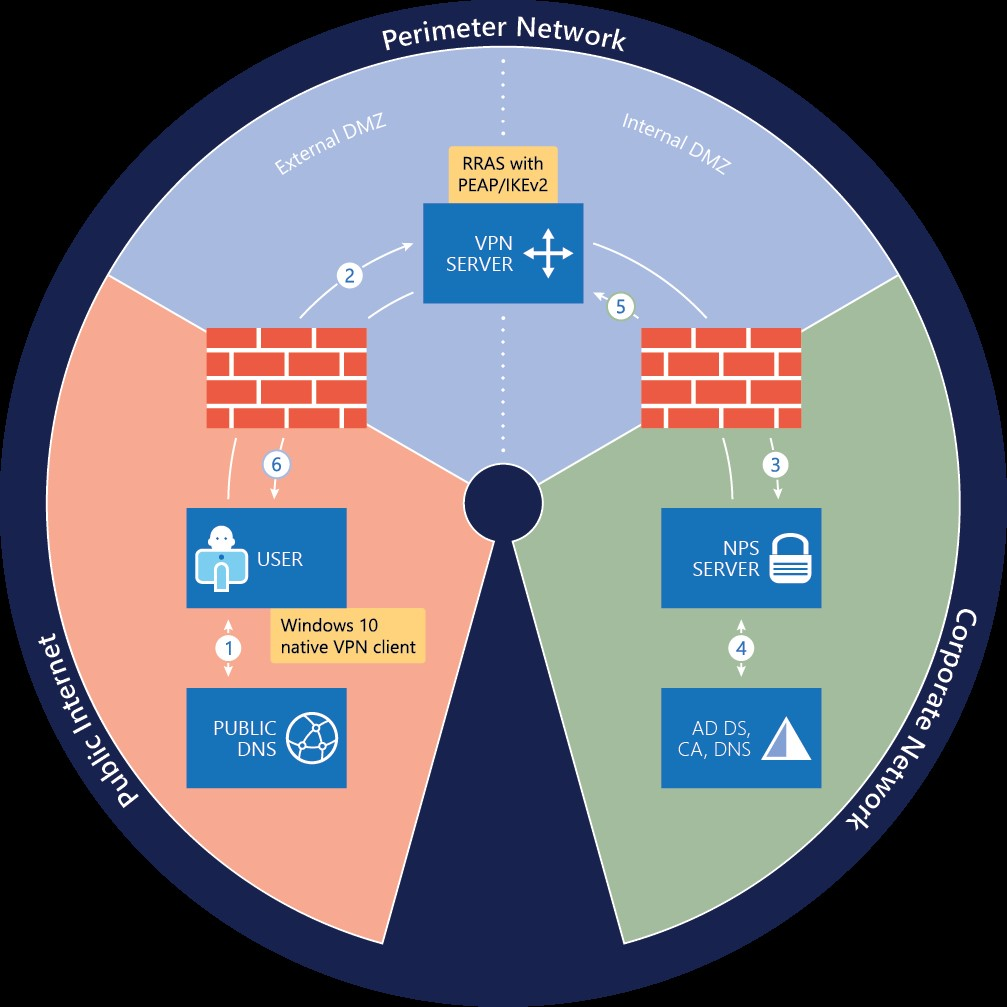
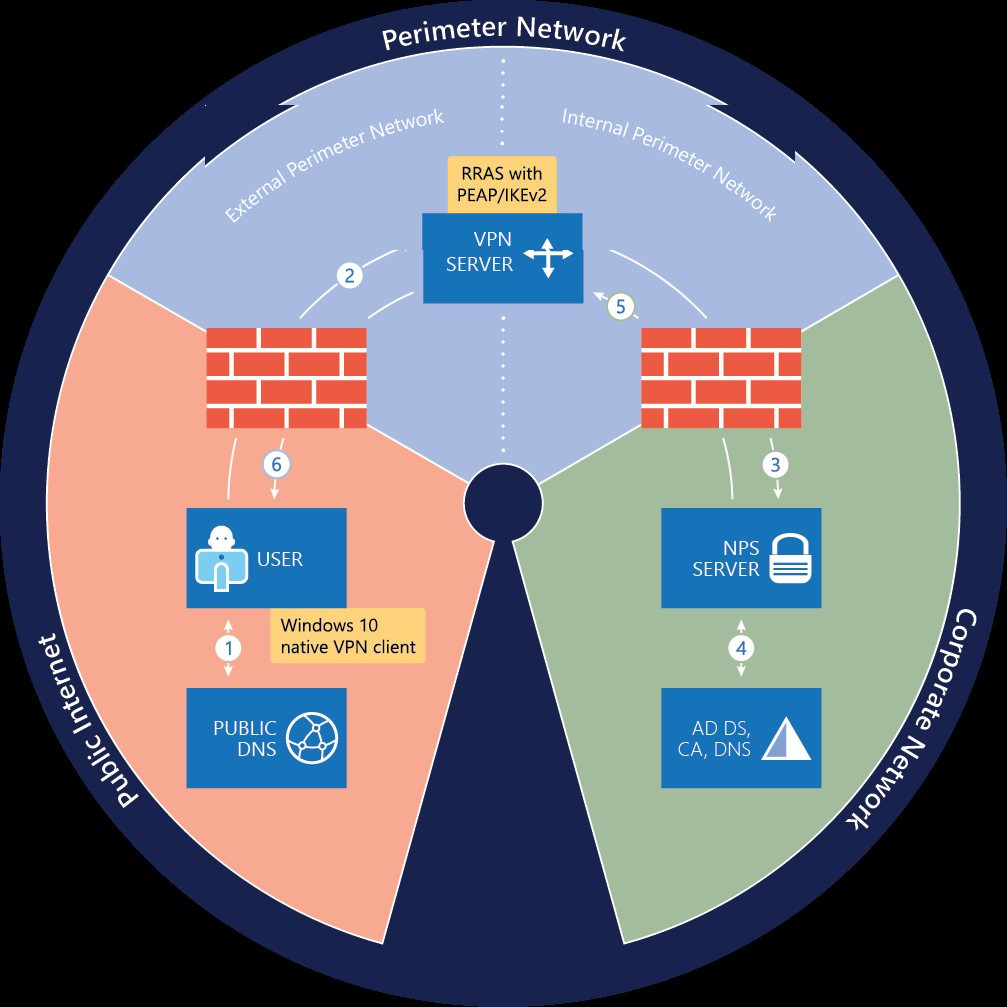
VPN deployment guide updates

diff --git a/WindowsServerDocs/remote/remote-access/vpn/always-on-vpn/deploy/vpn-deploy-nps.md b/WindowsServerDocs/remote/remote-access/vpn/always-on-vpn/deploy/vpn-deploy-nps.md
@@ -14,22 +14,21 @@ author: jamesmci
 
 You can use this section to install Network Policy Server \(NPS\) and perform configuration for Always On VPN.
 
-## Organization/Corporate NPS Server Deployment Overview
+NPS server processing of connection requests that are sent by the VPN server includes performing authorization - to verify that the user has permission to connect; performing authentication - to verify the user's identity; and performing accounting - to log the aspects of the connection request that you chose when you configured RADIUS accounting in NPS.
 
 The steps in this section allow you to complete the following items.
 
 1. On the computer or VM that is planned as the NPS server, and that is installed on your organization or corporate network, you can install NPS.
 
 >[!TIP]
->If you already have one or more NPS servers on your network, you do not need to perform the steps in this section - unless you want to add an NPS server to your configuration.
+>If you already have one or more NPS servers on your network, you do not need to perform NPS Server installation - instead, you can use this topic to update the configuration of an existing NPS server.
 
 2. On the organization/corporate NPS server, you can configure NPS to perform as a RADIUS server that processes the connection requests that are received from the VPN server.
 
-You can perform this installation with the following instructions by using either Windows PowerShell or the Server Manager Add Roles and Features Wizard.
 
-### Install Network Policy Server \(Optional\)
+## Install Network Policy Server
 
-You can use this section to install Network Policy Server \(NPS\) by using either Windows PowerShell or the Add Roles and Features Wizard.
+You can use this section to install Network Policy Server \(NPS\) by using either Windows PowerShell or the Server Manager Add Roles and Features Wizard.
 
 NPS is a role service of the Network Policy and Access Services server role.
 
@@ -73,9 +72,16 @@ You can use the following procedure to install NPS using Server Manager.
 
 NPS handles all authentication, authorization, and accounting duties for connection requests that it receives from the VPN server.
 
-On the NPS server, you define a policy that allows only users in a specific group to access the VPN, and then only when using a valid user certificate in a PEAP authentication request. This configuration supports a possible future move to Windows Hello for Business with minimal changes. 
+To configure NPS, you must perform the following tasks.
 
-### Register the NPS Server in Active Directory
+- Register the NPS Server in Active Directory
+- Configure RADIUS Accounting for your NPS Server
+- Add the VPN Server as a RADIUS Client in NPS
+- Configure Network Policy in NPS
+
+The following sections provide instructions on completing these tasks.
+
+## Register the NPS Server in Active Directory
 
 After you install NPS, you must register the server in Active Directory so that it has permission to access user account information while processing connection requests.
 
@@ -85,7 +91,19 @@ After you install NPS, you must register the server in Active Directory so that 
 2. In the NPS console, right\-click **NPS \(Local\)**, and then click **Register server in Active Directory**. The **Network Policy Server** dialog box opens.
 3. In the **Network Policy Server** dialog box, click **OK** twice.
 
-### Add the VPN Server as a RADIUS Client
+## Configure Network Policy Server Accounting
+
+There are three types of logging for Network Policy Server \(NPS\):
+
+- **Event logging**. Used primarily for auditing and troubleshooting connection attempts. You can configure NPS event logging by obtaining the NPS server properties in the NPS console.
+
+- **Logging user authentication and accounting requests to a local file**. Used primarily for connection analysis and billing purposes. Also useful as a security investigation tool because it provides you with a method of tracking the activity of a malicious user after an attack. You can configure local file logging using the Accounting Configuration wizard.
+
+- **Logging user authentication and accounting requests to a Microsoft SQL Server XML-compliant database**. Used to allow multiple servers running NPS to have one data source. Also provides the advantages of using a relational database. You can configure SQL Server logging by using the Accounting Configuration wizard.
+
+To learn how to configure NPS Accounting, see [Configure Network Policy Server Accounting](https://docs.microsoft.com/windows-server/networking/technologies/nps/nps-accounting-configure).
+
+## Add the VPN Server as a RADIUS Client
 
 You can use this section to configure the VPN server as a RADIUS Client in NPS.
 
@@ -103,47 +121,36 @@ You can use this section to configure the VPN server as a RADIUS Client in NPS.
 	- Select **Generate**, and then click **Generate** to automatically generate a shared secret. Save the generated shared secret for configuration on the NAS so that it can communicate with the NPS server.
 8. Click **OK**. The VPN Server appears in the list of RADIUS clients that are configured on the NPS server.
 
-### Configure NPS Server Network Policy
+## Configure NPS Server Network Policy
 
 You can use this procedure to configure NPS as a RADIUS server on your organization network.
+
+On the NPS server, you must define a policy that allows only users in a specific group to access the Organization/Corporate network through the VPN Server - and then only when using a valid user certificate in a PEAP authentication request. 
 
 **To configure the NPS Network Policy on the NPS server**
 
 1.  On the NPS server, in Server Manager, click **Tools**, and then click **Network Policy Server**.
 
-2.  Under **Standard Configuration**, click **Configure VPN or Dial-Up** to start the Configure VPN or Dial-Up Wizard.
+2.  In **Standard Configuration**, ensure that **RADIUS server for Dial\-Up or VPN Connections** is selected, and then click **Configure VPN or Dial-Up**. The **Configure VPN or Dial-Up** wizard opens.
 
-3.  On the Select Dial-up or Virtual Private Network Connections Type page, click **Virtual Private Network (VPN) Connections**, and click **Next**.
+3.  In the **Configure VPN or Dial-Up** wizard, in **Select Dial-up or Virtual Private Network Connections Type** page, click **Virtual Private Network (VPN) Connections**, and then click **Next**.
 
-4.  In **Specify Dial-Up or VPN Server**, complete the following steps:
+4.  In **Specify Dial-Up or VPN Server**, in RADIUS clients, click the name of the VPN Server that you added in the previous step. For example, if your VPN server NetBIOS name is RAS1, click **RAS1**. Click **Next**.
 
-    a.  Click **Add**. The **New RADIUS Client** dialog box opens.
+5.  In **Configure Authentication Methods**, complete the following steps:
 
-    b.  In **New RADIUS Client**, in **Friendly name**, type the name of your VPN/NPS proxy server.
-
-    c.  In **Address \(IP or DNS\)**, type the VPN/NPS proxy server’s IP address.
-
-    d.  In **Shared Secret**, click **Generate**, and then click **Generate**.
-
-    e.  Copy the generated string, and paste it into a text file that you save in a secure location. This string will be used to secure communication between the VPN/NPS proxy server and the NPS server. You will use the shared secret during VPN/NPS proxy server configuration in a later step.
-
-5.  Click **OK** to close the **New RADIUS Client** dialog box.
-
-6.  Click **Next**.
-
-7.  In **Configure Authentication Methods**, complete the following steps:
-
-    a.  Clear the **Microsoft Encrypted Authentication version 2 (MS-CHAPv2)** check box.
+    a.  Deselect the **Microsoft Encrypted Authentication version 2 (MS-CHAPv2)** check box.
 
     b.  Select the **Extensible Authentication Protocol** check box.
 
-    c.  In **Type**, click **Microsoft: Protected EAP \(PEAP\)**, and click **Configure**. The **Edit Protected EAP Properties** dialog box opens.
+    c.  Click **Type \(based on method of access and network configuration\)**, and then click **Microsoft: Protected EAP \(PEAP\)**.
+	d.  Click **Configure**. The **Edit Protected EAP Properties** dialog box opens.
 
-    d.  In **Edit Protected EAP Properties**, click **Remove** to remove the **Secured Password \(EAP-MSCHAP v2\)** EAP type.
+    e.  In **Edit Protected EAP Properties**, click **Remove** to remove the **Secured Password \(EAP-MSCHAP v2\)** EAP type.
 
-    e.  Click **Add**.  The **Add EAP** dialog box opens. In **Add EAP**, click **Smart Card or other certificate**, and then click **OK**.
+    f.  Click **Add**.  The **Add EAP** dialog box opens. In **Add EAP**, click **Smart Card or other certificate**, and then click **OK**.
 
-    f.  Click **OK** to close t**Edit Protected EAP Properties**.
+    g.  Click **OK** to close **Edit Protected EAP Properties**.
 
 8.  Click **Next**.
 
@@ -157,77 +164,9 @@ You can use this procedure to configure NPS as a RADIUS server on your organizat
 
 10.  In **Specify IP Filters**, click **Next**.
 
-11.  In **Specify Encryption Settings**, do not make any changes. These settings apply only to Microsoft Point-to-Point Encryption (MPPE) connections, which this scenario doesn’t support. Click **Next**.
+11.  In **Specify Encryption Settings**, do not make any changes. These settings apply only to Microsoft Point-to-Point Encryption \(MPPE\) connections, which this scenario doesn’t support. Click **Next**.
 
 12.  In **Specify a Realm Name**, click **Next**.
 
 13.  Click **Finish** to close the wizard.
-
-
-
-### NPS proxy server configuration
-
-You can use this procedure to configure NPS as a RADIUS proxy on your VPN server.
-
-**To configure the VPN server as an NPS RADIUS proxy server**
-
-1.  On your VPN server, in Server Manager, click **Tools**, and then click **Network Policy Server**.
-
-2.  In **RADIUS Clients and Servers**, right-click **Remote RADIUS Server Groups**, and then click **New**. The **New Remote RADIUS Server Group** dialog box opens. Complete the following steps:
-
-    a.  In **New Remote RADIUS Server Group**, click **Add**. The **Add RADIUS Server** dialog box opens.
-
-    b.  On the **Address** tab, in **Server**, type the IP address of the NPS server that is installed on your organization or corporate network.
-
-    c.  On the **Authentication/Accounting** tab, in both **Shared Secret** and **Confirm Shared Secret**, paste the shared secret that you previously generated on the NPS server. The shared secret that you configure on this NPS proxy server and on the NPS server must match, or RADIUS communication between the proxy and the server will fail.
-
-    d.  Click **OK**.
-
-    e.  In **New Remote RADIUS Server Group**, in **Group name**, type **Internal NPS**, and then click **OK**.
-
-3.  In **Policies**, right-click **Connection Request Policies**, and then click **New**. The **New Connection Request Policy Wizard** opens.
-
-4.  In **Specify Connection Request Policy Name and Connection Type**, complete the following steps:
-
-    a.  In **Policy Name**, type **Forward all requests**.
-
-    b.  In **Type of network access server**, click **Remote Access Server \(VPN-Dial up\)**.
-
-    c.  Click **Next**.
-
-5.  In **Specify Conditions**, complete the following steps:
-
-    a.  Click **Add**. The **Select condition** dialog box opens.
-
-    b.  In **Select condition**, click **Day and time restrictions**, and then click **Add**. The **Day and time restrictions** dialog box opens.
-
-    c.  In **Day and time restrictions**, click **All**, click **Permitted**, and then click **OK**.
-
-    d.  In **Specify Conditions**, confirm that the day and time restrictions are correct, and click **Next**.
-
-6.  In **Specify Connection Request Forwarding**, complete the following steps:
-
-    a.  Click **Forward requests to the following remote RADIUS server group for authentication**.
-
-    b.  Click **Accounting**, and click **Forward accounting requests to this remote RADIUS server group**.
-
-    c.  Click **Next**.
-
-7.  In **Configure Settings**, click **Next**.
-
-8.  Click **Finish**. All configured policies appear under **Connection Request Policies** in the details pane.
-
-9.  Disable all policies except **Forward all requests** by right-clicking each policy, and then clicking **Disable**.
-
-10. Close the NPS console.
-
-For more information about NPS as a RADIUS server and RADIUS proxy server, see [Network Policy Server (NPS)](https://docs.microsoft.com/windows-server/networking/technologies/nps/nps-top).
-
->[!NOTE]
->NPS server processing of connection requests includes performing authorization - to verify that the user has permission to connect; performing authentication - to verify the user's identity; and performing accounting - to log the aspects of the connection request that you chose when you configured RADIUS accounting in NPS.
-
-For more information, see [Manage NPS Servers](https://docs.microsoft.com/windows-server/networking/technologies/nps/nps-manage-top).
-
-
-For the next Always On VPN deployment steps, see [Configure DNS and Firewall Settings for Always On VPN](vpn-deploy-dns-firewall.md).
 

diff --git a/WindowsServerDocs/remote/remote-access/vpn/always-on-vpn/deploy/vpn-deploy-dns-firewall.md b/WindowsServerDocs/remote/remote-access/vpn/always-on-vpn/deploy/vpn-deploy-dns-firewall.md
@@ -35,14 +35,40 @@ To ensure that remote clients can connect to your VPN server, you can create a D
 7. If you created a reverse lookup zone for a range of IP addresses that includes the IP address that you typed, you can select the **Create associated pointer \(PTR\) record** check box to create an additional pointer \(PTR\) resource record in a reverse zone for this host, based on the information that you entered in **Name** and **IP address**.
 8. Click **Add Host**.
 
-## Configure the edge firewall
+## Configure the Edge Firewall
 
-Your edge firewall must allow and forward specific ports to your VPN server. If you use Network Address Translation \(NAT\) on your edge firewall, you might need to enable port forwarding for User Datagram Protocol \(UDP\) ports 500 and 4500. You should forward these ports to the IP address that is assigned to the external interface of your VPN server.
+The Edge Firewall separates the External Perimeter Network from the Public Internet. For a visual representation of this separation, see the illustration in the topic [Remote Access Always On VPN Deployment Overview](always-on-vpn-deploy-overview.md).
+
+Your Edge Firewall must allow and forward specific ports to your VPN server. If you use Network Address Translation \(NAT\) on your edge firewall, you might need to enable port forwarding for User Datagram Protocol \(UDP\) ports 500 and 4500. You should forward these ports to the IP address that is assigned to the external interface of your VPN server.
 
 If you’re routing traffic inbound and performing NAT at or behind the VPN server, then you must open your firewall rules to allow ports 500 and 4500 inbound to the external IP address applied to the public interface on the VPN server.
 
 In either case, if your firewall supports deep packet inspection and you have difficulty establishing client connections, you should attempt to relax or disable deep packet inspection for IKE sessions.
 
 For information on how to make these configuration changes, see your firewall documentation.
+
+## Configure the Internal Perimeter Network Firewall
+
+The Internal Perimeter Network Firewall separates the Organization/Corporate Network from the Internal Perimeter Network. For a visual representation of this separation, see the illustration in the topic [Remote Access Always On VPN Deployment Overview](always-on-vpn-deploy-overview.md).
+
+Because the Remote Access VPN server on the perimeter network is configured as a Remote Authentication Dial In User Service \(RADIUS\) Client and sends RADIUS traffic to the Network Policy Server \(NPS\) on the Organization/Corporate network - and also receives RADIUS traffic from the NPS Server - you must configure the firewall to allow RADIUS traffic to flow in both directions.
+
+>[!NOTE]
+>The NPS server on the Organization/Corporate network functions as a RADIUS Server for the VPN Server, which is a RADIUS Client. For more information about the RADIUS infrastructure, see [Network Policy Server (NPS)](https://docs.microsoft.com/windows-server/networking/technologies/nps/nps-top).
+
+### RADIUS Traffic Ports on the VPN Server and NPS Server
+
+By default, NPS and VPN listen for RADIUS traffic on ports 1812, 1813, 1645, and 1646 on all installed network adapters. If Windows Firewall with Advanced Security is enabled when you install NPS, firewall exceptions for these ports are automatically created during the installation process for both Internet Protocol version 6 \(IPv6\) and IPv4 traffic. 
+
+>[!IMPORTANT]
+>If your network access servers are configured to send RADIUS traffic over ports other than these defaults, remove the exceptions created in Windows Firewall with Advanced Security during NPS installation, and create exceptions for the ports that you do use for RADIUS traffic.
+
+### Use the Same RADIUS Ports for the Internal Perimeter Network Firewall Configuration
+
+If you are using the default RADIUS port configuration on the VPN Server and the NPS Server, ensure that you open the following ports on the Internal Perimeter Network Firewall.
+
+- Ports 1812, 1813, 1645, and 1646
+
+If you are not using the default RADIUS ports in your NPS deployment, you must configure the firewall to allow RADIUS traffic on the ports that you are using.
 
 For the next Always On VPN deployment steps, see [Configure Windows 10 Client Always On VPN Connections](vpn-deploy-client-vpn-connections.md).
